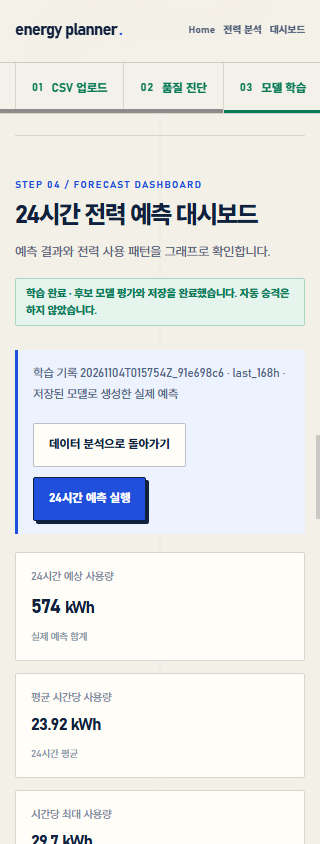
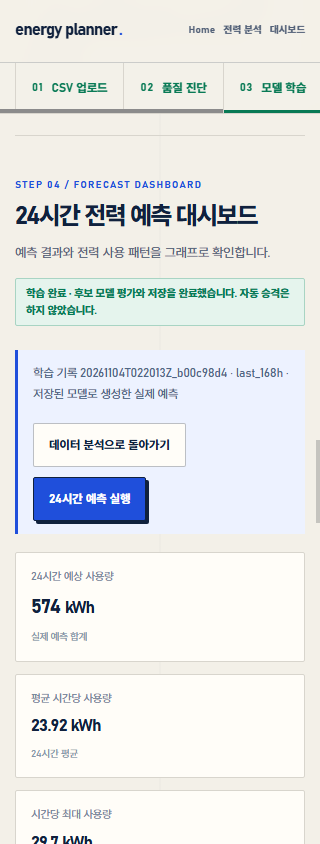
feat: add determinate training progress

diff --git a/frontend/app.js b/frontend/app.js
@@ -135,14 +135,13 @@ function updateAnalyzeAvailability() {
 function resetTrainingView(message = "STEP 02 품질 진단을 통과하면 학습을 시작할 수 있습니다.") {
   $("training-progress").hidden = true;
   $("workspace-model-results").hidden = true;
-  $("retry-training").hidden = true;
-  $("open-dashboard").hidden = true;
   $("training-placeholder").hidden = false;
   $("training-placeholder").textContent = message;
   $("workspace-job-status").textContent = "학습 대기";
   $("workspace-job-status").removeAttribute("data-status");
   $("train").disabled = true;
-  $("workspace-run-prediction").hidden = true;
+  $("train").textContent = "XGBoost 학습 시작 ↗";
+  setTrainingProgress(0, "학습 작업을 준비하고 있습니다.");
   $("workspace-prediction-summary").textContent = "24시간 예측 실행 전입니다.";
 }
 
@@ -250,11 +249,8 @@ function updateNextAction() {
   $("dashboard-empty-action").hidden = completed;
   $("dashboard-empty-action").textContent = running ? "데이터 분석에서 학습 상태 확인" : "CSV 업로드하러 가기";
   $("return-workspace").hidden = !completed;
-  $("open-dashboard").hidden = !completed;
   $("run-prediction").hidden = !completed;
   $("run-prediction").disabled = !canPredict;
-  $("workspace-run-prediction").hidden = !completed;
-  $("workspace-run-prediction").disabled = !canPredict;
   $("ai-analyze").disabled = !state.predictionComplete || !state.aiAnalysisAvailable;
   if (!state.aiAnalysisAvailable) {
     $("ai-analysis-status").textContent = "OPENAI_API_KEY가 설정되지 않아 AI 해석은 비활성화되어 있습니다. 기본 예측 기능은 정상적으로 사용할 수 있습니다.";
@@ -524,7 +520,6 @@ function renderQuality(result) {
     : "품질 진단의 차단 사유를 해결한 뒤 다시 진단해 주세요.";
   $("workspace-job-status").textContent = result.training_eligible ? "학습 준비 완료" : "학습 불가";
   $("workspace-job-status").dataset.status = result.training_eligible ? "READY" : "BLOCKED";
-  $("open-dashboard").hidden = state.job?.status !== "COMPLETED";
   const qualityStatus = quality.status.toLowerCase();
   const stepTwoStatus = qualityStatus === "pass" ? "complete" : qualityStatus === "warning" ? "warning" : "fail";
   setWorkspaceState(
@@ -604,10 +599,9 @@ async function startTraining() {
     return;
   }
   $("train").disabled = true;
-  $("retry-training").hidden = true;
   $("training-placeholder").hidden = true;
   $("training-progress").hidden = false;
-  $("training-stage").textContent = "서버에 학습 작업을 등록하고 있습니다.";
+  setTrainingProgress(2, "서버에 학습 작업을 등록하고 있습니다.");
   setWorkspaceState({ 1: "complete", 2: state.stepStatuses[2], 3: "in-progress" }, 3);
   try {
     state.job = await api("/api/training-jobs", requestBody());
@@ -620,14 +614,23 @@ async function startTraining() {
     error.textContent = `모델 학습을 시작하지 못했습니다: ${caught.message} 품질 진단 결과와 제한 실험 동의를 확인해 주세요.`;
     setWorkspaceState({ 1: "complete", 2: state.stepStatuses[2], 3: "fail" }, 3);
     $("training-progress").hidden = true;
-    $("retry-training").hidden = false;
+    $("train").disabled = !analysisIsCurrent();
     $("workspace-job-status").textContent = "학습 시작 실패";
     $("workspace-job-status").dataset.status = "FAILED";
   }
 }
 
 $("train").onclick = startTraining;
-$("retry-training").onclick = startTraining;
+
+function setTrainingProgress(percent, message) {
+  const value = Math.max(0, Math.min(100, Math.round(Number(percent) || 0)));
+  $("training-stage").textContent = message;
+  $("training-percent").textContent = `${value}%`;
+  $("training-progress-fill").style.width = `${value}%`;
+  const progressbar = $("training-progressbar");
+  progressbar.setAttribute("aria-valuenow", String(value));
+  progressbar.setAttribute("aria-valuetext", `${message} ${value}%`);
+}
 
 function metricText(metric) {
   if (!metric || !Number.isFinite(metric.mae)) return "평가 결과 없음";
@@ -643,13 +646,11 @@ function renderJob(job) {
   workspaceChip.textContent = `${jobStatusText(job.status)} · ${job.progress_message}`;
   workspaceChip.dataset.status = job.status;
   const completed = job.status === "COMPLETED";
-  $("open-dashboard").hidden = !completed;
   if (["QUEUED", "RUNNING"].includes(job.status)) {
     $("training-placeholder").hidden = true;
     $("training-progress").hidden = false;
-    $("training-stage").textContent = job.progress_message;
+    setTrainingProgress(job.progress_percent, job.progress_message);
     $("workspace-model-results").hidden = true;
-    $("retry-training").hidden = true;
     $("train").disabled = true;
     $("model-state").textContent = "학습 진행 중";
     setWorkspaceState({ 1: "complete", 2: "complete", 3: "in-progress" }, 3);
@@ -660,8 +661,7 @@ function renderJob(job) {
     $("training-progress").hidden = true;
     $("training-placeholder").hidden = false;
     $("training-placeholder").textContent = job.error || "학습에 실패했습니다. 입력과 서버 로그를 확인해 주세요.";
-    $("retry-training").hidden = !analysisIsCurrent();
-    $("train").disabled = true;
+    $("train").disabled = !analysisIsCurrent();
     error.textContent = job.error ? `모델 학습을 완료하지 못했습니다: ${job.error}` : "모델 학습을 완료하지 못했습니다. 입력 데이터와 서버 로그를 확인한 뒤 다시 시도하세요.";
     $("model-state").textContent = "학습 실패";
     setWorkspaceState({ 1: "complete", 2: "complete", 3: "fail" }, 3);
@@ -670,9 +670,9 @@ function renderJob(job) {
   if (!completed) return;
 
   setWorkspaceState({ 1: "complete", 2: "complete", 3: "complete" }, 3);
-  $("training-progress").hidden = true;
+  $("training-progress").hidden = false;
   $("training-placeholder").hidden = true;
-  $("retry-training").hidden = true;
+  setTrainingProgress(job.progress_percent ?? 100, job.progress_message);
   $("train").disabled = true;
   $("workspace-model-results").hidden = false;
   const names = { xgboost: "xgboost", last_24h: "last-24h", last_168h: "last-168h" };
@@ -718,7 +718,6 @@ async function pollJob() {
   }
 }
 
-$("open-dashboard").onclick = () => scrollToSection("dashboard");
 $("dashboard-empty-action").onclick = () => scrollToSection("upload");
 $("return-workspace").onclick = () => scrollToSection("upload");
 
@@ -898,19 +897,14 @@ function renderMonthlyUsage(values) {
   $("monthly-usage-list").replaceChildren(fragment);
 }
 
-async function runPrediction(source) {
+async function runPrediction() {
   const dashboardButton = $("run-prediction");
-  const workspaceButton = $("workspace-run-prediction");
-  const sourceButton = source === "workspace" ? workspaceButton : dashboardButton;
-  const sourceError = source === "workspace" ? error : $("dashboard-error");
+  const sourceError = $("dashboard-error");
   $("dashboard-error").hidden = true;
   $("dashboard-error").textContent = "";
-  if (source === "workspace") error.textContent = "";
   resetAIAnalysis();
   dashboardButton.disabled = true;
-  workspaceButton.disabled = true;
-  sourceButton.textContent = "예측 중…";
-  if (source === "workspace") $("workspace-prediction-summary").textContent = "저장된 모델로 24시간 예측을 생성하고 있습니다.";
+  dashboardButton.textContent = "예측 중…";
   try {
     const result = await api(`/api/predictions/${state.job.job_id}`, requestBody());
     drawPredictionChart(result.history_kwh, result.predictions_kwh, result.timestamps);
@@ -934,16 +928,13 @@ async function runPrediction(source) {
     const message = `예측에 실패했습니다: ${caught.message} 입력 CSV와 시간대를 확인한 뒤 다시 시도하세요.`;
     sourceError.hidden = false;
     sourceError.textContent = message;
-    if (source === "workspace") $("workspace-prediction-summary").textContent = "예측을 완료하지 못했습니다. 오류 안내를 확인한 뒤 다시 시도하세요.";
   } finally {
     dashboardButton.textContent = "24시간 예측 실행";
-    workspaceButton.textContent = "24시간 예측 실행";
     updateNextAction();
   }
 }
 
-$("run-prediction").onclick = () => runPrediction("dashboard");
-$("workspace-run-prediction").onclick = () => runPrediction("workspace");
+$("run-prediction").onclick = runPrediction;
 
 function renderTextList(target, values) {
   const fragment = document.createDocumentFragment();

diff --git a/frontend/index.html b/frontend/index.html
@@ -47,7 +47,7 @@
     <section class="section workflow-panel" id="training" data-step-panel="3" tabindex="-1" aria-live="polite">
       <div class="section-heading"><div><div class="eyebrow">STEP 03 / MACHINE LEARNING</div><h2>XGBoost 모델 학습</h2><div class="sub">기준 모델과 Validation 성능을 비교하고 Test는 최종 평가에만 사용합니다.</div></div><span id="workspace-job-status" class="status">학습 대기</span></div>
       <div class="section-body"><div class="grid2 training-grid"><div class="panel"><h3 class="section-text">학습 설정</h3><div class="detail-row"><span>예측 대상</span><strong>향후 24시간 kWh</strong></div><div class="detail-row"><span>학습 모델</span><strong>XGBoost</strong></div><div class="detail-row"><span>데이터 분할</span><strong>시간순 분할</strong></div><div class="split" aria-label="Train, Validation, Test 시간순 분할"><span class="train-split">Train</span><span class="validation-split">Validation</span><span class="test-split">Test</span></div><p class="muted">Train은 학습, Validation은 모델 선택, Test는 최종 성능 검증에만 사용합니다.</p><div class="hint"><strong>ⓘ 데이터는 왜 나눠야 하나요?</strong><div>미래 정보를 미리 보는 데이터 누수를 방지하기 위해 시간순으로 분리합니다.</div></div></div>
-        <div class="panel training-status-panel"><div><h3 class="section-text">학습 진행 상태</h3><div id="training-placeholder" class="muted training-placeholder">STEP 02 품질 진단을 통과하면 학습을 시작할 수 있습니다.</div><div id="training-progress" hidden><div class="detail-row"><span id="training-stage">학습 작업을 준비하고 있습니다.</span><strong>진행 중</strong></div><div class="train-track" role="progressbar" aria-label="XGBoost 학습 진행 중"><div class="train-fill"></div></div></div></div><div id="training-actions" class="actions training-actions"><button id="train" class="btn primary" type="button" disabled>XGBoost 학습 시작 ↗</button><button id="retry-training" class="btn" type="button" hidden>학습 재시도</button><button id="workspace-run-prediction" class="btn primary" type="button" hidden>24시간 예측 실행</button><button id="open-dashboard" class="btn" type="button" hidden>대시보드로 이동 ↓</button></div><p id="workspace-prediction-summary" class="notice">24시간 예측 실행 전입니다.</p></div></div>
+        <div class="panel training-status-panel"><div><h3 class="section-text">학습 진행 상태</h3><div id="training-placeholder" class="muted training-placeholder">STEP 02 품질 진단을 통과하면 학습을 시작할 수 있습니다.</div><div id="training-progress" hidden><div class="detail-row"><span id="training-stage">학습 작업을 준비하고 있습니다.</span><strong id="training-percent">0%</strong></div><div id="training-progressbar" class="train-track" role="progressbar" aria-label="XGBoost 모델 학습 진행률" aria-valuemin="0" aria-valuemax="100" aria-valuenow="0" aria-valuetext="학습 준비 0%"><div id="training-progress-fill" class="train-fill"></div></div><p class="muted progress-note">작업 단계 기준 진행률이며 실제 남은 시간과는 다를 수 있습니다.</p></div></div><div id="training-actions" class="actions training-actions"><button id="train" class="btn primary" type="button" disabled>XGBoost 학습 시작 ↗</button></div><p id="workspace-prediction-summary" class="notice">24시간 예측 실행 전입니다.</p></div></div>
         <div id="workspace-model-results" class="panel model-results" hidden><h3 class="section-text">Validation 성능 비교 <span class="status blue">실제 평가 결과</span></h3><div class="table-wrap"><table class="table"><thead><tr><th>모델</th><th>MAE / WAPE</th><th>결과</th></tr></thead><tbody><tr id="workspace-model-xgboost"><td><strong>XGBoost</strong></td><td id="workspace-metric-xgboost">평가 결과 없음</td><td>후보</td></tr><tr id="workspace-model-last-24h"><td>Last-24h</td><td id="workspace-metric-last-24h">평가 결과 없음</td><td>기준</td></tr><tr id="workspace-model-last-168h"><td>Last-168h</td><td id="workspace-metric-last-168h">평가 결과 없음</td><td>기준</td></tr></tbody></table></div><p id="test-evaluation-note" class="muted">Test는 Validation에서 선택한 모델의 최종 성능 확인에만 사용합니다.</p></div>
       </div>
     </section>

diff --git a/frontend/reference-system.css b/frontend/reference-system.css
@@ -177,7 +177,8 @@ a { color: inherit; }
 .training-placeholder { min-height: 64px; }
 .training-actions { margin-top: 20px; }
 .train-track { height: 8px; margin-block: 14px; overflow: hidden; background: #e4e6e5; }
-.train-fill { width: 38%; height: 100%; background: var(--blue); animation: train-progress 1.2s ease-in-out infinite alternate; }
+.train-fill { width: 0; height: 100%; background: var(--blue); transition: width .3s ease; }
+.progress-note { margin: 0; }
 .split { height: 24px; display: flex; overflow: hidden; margin-top: 20px; color: #fff; font-size: 10px; font-weight: 700; text-align: center; }
 .split span { display: grid; place-items: center; }
 .train-split { width: 66.67%; background: #2855da; }
@@ -230,8 +231,6 @@ a { color: inherit; }
 .model-dl dd { margin: 0; overflow-wrap: anywhere; text-align: right; font-weight: 700; }
 .error { color: var(--danger); font-size: 12px; }
 .disclaimer { border-top: 1px solid var(--line); padding: 30px; color: #8c94a0; font-size: 11px; text-align: center; }
-
-@keyframes train-progress { to { transform: translateX(165%); } }
 
 @media (max-width: 900px) {
   .section { grid-template-columns: 190px minmax(0, 1fr); gap: 0 30px; }

diff --git a/backend/app/ml/train.py b/backend/app/ml/train.py
@@ -6,7 +6,7 @@ from dataclasses import dataclass
 from hashlib import sha256
 from pathlib import Path
 from time import perf_counter
-from typing import Any
+from typing import Any, Callable
 
 import numpy as np
 import pandas as pd
@@ -49,6 +49,7 @@ def train_xgboost(
     train: SequenceBatch,
     validation: SequenceBatch,
     config: TrainingConfig = TrainingConfig(),
+    progress_callback: Callable[[int, int], None] | None = None,
 ) -> TrainingOutcome:
     """Train one deterministic regressor for each of the 24 forecast hours."""
     if len(train.x) == 0 or len(validation.x) == 0:
@@ -94,6 +95,8 @@ def train_xgboost(
                 "best_validation_mae": best_loss,
             }
         )
+        if progress_callback is not None:
+            progress_callback(horizon + 1, HORIZON)
     return TrainingOutcome(
         models=models,
         best_epoch=max(best_iterations),
@@ -124,6 +127,7 @@ def run_training_pipeline(
     config: TrainingConfig = TrainingConfig(),
     source_timezone_mode="iana_civil_time",
     source_timezone_metadata: str | None = None,
+    progress_callback: Callable[[int, str], None] | None = None,
 ) -> PipelineOutcome:
     """Train and evaluate an XGBoost candidate without promotion or retraining."""
     from .artifacts import save_run_artifacts
@@ -140,7 +144,12 @@ def run_training_pipeline(
     from .sequences import make_sequences, validate_minimum_samples
     from .split import frozen_evaluation_origins, make_split_plan
 
+    def report_progress(percent: int, message: str) -> None:
+        if progress_callback is not None:
+            progress_callback(percent, message)
+
     total_started = perf_counter()
+    report_progress(10, "입력 데이터와 시간대를 검증하고 있습니다.")
     data = validate_and_normalize_frame(
         frame, building_timezone, source_timezone_mode=source_timezone_mode
     )
@@ -161,11 +170,21 @@ def run_training_pipeline(
     test_eval = make_sequences(features, data.kwh, plan, "test", origins=test_origins)
     validate_minimum_samples(train_dense, validation_dense, validation_eval, test_eval)
     data_preparation_seconds = perf_counter() - total_started
+    report_progress(25, "학습·Validation·Test 데이터를 준비했습니다.")
 
     training_started = perf_counter()
-    outcome = train_xgboost(train_dense, validation_dense, config)
+    outcome = train_xgboost(
+        train_dense,
+        validation_dense,
+        config,
+        progress_callback=lambda completed, total: report_progress(
+            25 + round(completed / total * 50),
+            f"24개 예측 시점별 XGBoost 모델을 학습하고 있습니다. ({completed}/{total})",
+        ),
+    )
     training_seconds = perf_counter() - training_started
 
+    report_progress(80, "Validation 성능으로 후보 모델을 비교하고 있습니다.")
     validation_predictions = {
         "xgboost": predict_xgboost(outcome.models, validation_eval.x),
         LAST_24H: baseline_predictions(data.kwh, validation_eval.origins, LAST_24H),
@@ -181,6 +200,7 @@ def run_training_pipeline(
         validation_metrics_objects[LAST_168H],
     )
 
+    report_progress(88, "선택 모델의 Test 성능을 최종 평가하고 있습니다.")
     test_predictions = {
         "xgboost": predict_xgboost(outcome.models, test_eval.x),
         LAST_24H: baseline_predictions(data.kwh, test_eval.origins, LAST_24H),
@@ -210,6 +230,7 @@ def run_training_pipeline(
     canonical_input["timestamp"] = canonical_input["timestamp"].map(
         lambda value: value.isoformat()
     )
+    report_progress(95, "모델과 평가 산출물을 저장하고 있습니다.")
     artifact_started = perf_counter()
     run_dir = save_run_artifacts(
         artifact_root,

diff --git a/backend/app/web/service.py b/backend/app/web/service.py
@@ -128,7 +128,8 @@ class TrainingJob:
     test_metrics: dict[str, Any] | None = None
     error: str | None = None
     progress_message: str = "학습 대기 중"
-    progress_mode: str = "indeterminate"
+    progress_mode: str = "determinate"
+    progress_percent: int = 0
     csv_text: str = field(default="", repr=False)
     building_timezone: str = field(default="", repr=False)
     source_timezone_mode: str = field(default="", repr=False)
@@ -199,6 +200,9 @@ class TrainingJobManager:
                         job.error = "ArtifactMissing: 저장된 모델 경로를 확인할 수 없습니다."
                         job.progress_message = "저장된 모델을 다시 연결할 수 없습니다."
                         self._persist_job(job)
+                    else:
+                        job.progress_mode = "determinate"
+                        job.progress_percent = 100
                 self._jobs[job.job_id] = job
             except (OSError, ValueError, TypeError, json.JSONDecodeError):
                 continue
@@ -260,8 +264,16 @@ class TrainingJobManager:
         job = self._jobs[job_id]
         job.status = "RUNNING"
         job.started_at_utc = datetime.now(UTC).isoformat()
-        job.progress_message = "XGBoost와 기준 모델을 평가하고 있습니다."
+        job.progress_mode = "determinate"
+        job.progress_percent = 5
+        job.progress_message = "학습 작업을 시작하고 있습니다."
         self._persist_job(job)
+
+        def update_progress(percent: int, message: str) -> None:
+            job.progress_percent = max(job.progress_percent, min(99, max(0, int(percent))))
+            job.progress_message = message
+            self._persist_job(job)
+
         try:
             run_id = f"{datetime.now(UTC).strftime('%Y%m%dT%H%M%SZ')}_{job_id[:8]}"
             outcome = self.pipeline(
@@ -273,6 +285,7 @@ class TrainingJobManager:
                 warning_approved=warning_approved,
                 source_timezone_mode=job.source_timezone_mode,
                 source_timezone_metadata=job.building_timezone,
+                progress_callback=update_progress,
             )
             job.run_dir = str(outcome.run_dir)
             job.selected_model = outcome.selected_model
@@ -287,6 +300,7 @@ class TrainingJobManager:
                 if metrics_path.exists():
                     job.test_metrics = json.loads(metrics_path.read_text(encoding="utf-8"))
             job.status = "COMPLETED"
+            job.progress_percent = 100
             job.progress_message = "후보 모델 평가와 저장을 완료했습니다. 자동 승격은 하지 않았습니다."
         except Exception as exc:  # surfaced to the local user, not silently retried
             job.status = "FAILED"

diff --git a/backend/tests/web/test_service.py b/backend/tests/web/test_service.py
@@ -127,6 +127,7 @@ class WebServiceCases(unittest.TestCase):
 
         def fake_pipeline(*args, **kwargs):
             calls.append((args, kwargs))
+            kwargs["progress_callback"](50, "테스트 학습 진행 중")
             run = Path(kwargs["artifact_root"]) / kwargs["building_id"] / kwargs["run_id"]
             return SimpleNamespace(run_dir=run, selected_model="last_24h")
 
@@ -143,6 +144,8 @@ class WebServiceCases(unittest.TestCase):
             manager._run(job.job_id, warning_approved=False)
             completed = manager.get(job.job_id)
             self.assertEqual(completed.status, "COMPLETED")
+            self.assertEqual(completed.progress_mode, "determinate")
+            self.assertEqual(completed.progress_percent, 100)
             self.assertEqual(completed.selected_model, "last_24h")
             self.assertEqual(len(calls), 1)
             self.assertEqual(calls[0][1]["source_timezone_mode"], "explicit_offset")

diff --git a/docs/spec.md b/docs/spec.md
@@ -157,11 +157,11 @@ manifest는 건물·run·모델·shape·피처·시간대·데이터 해시·파
 | `GET /api/health` | 상태 확인 |
 | `POST /api/quality` | 계약·품질·학습/예측 자격 |
 | `POST /api/training-jobs` | 별도 학습 작업 생성 |
-| `GET /api/training-jobs/{job_id}` | 작업 상태·지표 조회 |
+| `GET /api/training-jobs/{job_id}` | 작업 상태·단계 기반 `progress_percent`·지표 조회 |
 | `POST /api/predictions/{job_id}` | 완료 run 재사용 예측 |
 | `POST /api/ai-analysis/{job_id}` | 저장 예측 결과의 선택형 AI 해석 |
 
-동일 건물에 QUEUED/RUNNING 작업이 있으면 중복 학습 요청을 거부합니다. 공개 job 메타데이터는 `artifacts/web_jobs/_jobs/`에 저장하며 원본 CSV는 저장하지 않습니다. 완료 job은 재시작 후 복구하고, 중단된 QUEUED/RUNNING job은 자동 재학습 없이 FAILED로 복구합니다.
+동일 건물에 QUEUED/RUNNING 작업이 있으면 중복 학습 요청을 거부합니다. `progress_percent`는 데이터 준비, 24개 예측 시점별 XGBoost 학습, Validation, Test, 산출물 저장의 실제 완료 단계를 0~100 정수로 제공합니다. 공개 job 메타데이터는 `artifacts/web_jobs/_jobs/`에 저장하며 원본 CSV는 저장하지 않습니다. 완료 job은 재시작 후 복구하고, 중단된 QUEUED/RUNNING job은 자동 재학습 없이 FAILED로 복구합니다.
 
 ## 13. 화면 동작
 

diff --git a/docs/prd.md b/docs/prd.md
@@ -109,7 +109,7 @@
 
 - 단일 페이지 `/`에서 Hero → CSV 업로드 → 품질 진단 → 모델 학습 → 예측 대시보드 순서로 이동하며, URL hash로 각 섹션을 직접 연결합니다.
 - CSV 선택, 자동 건물 ID·시간대 입력과 품질 결과를 제공합니다.
-- 학습 작업의 QUEUED/RUNNING/COMPLETED/FAILED 상태를 표현합니다.
+- 학습 작업의 QUEUED/RUNNING/COMPLETED/FAILED 상태와 실제 작업 단계 기반 진행률을 퍼센트로 표현합니다.
 - Validation MAE, 선택 모델과 run ID를 표시합니다.
 - 저장 run 예측 후 그래프·총량·피크를 갱신합니다.
 - Editorial 기반 Wave Halftone 랜딩과 파란색 계열 작업 화면을 사용합니다.
